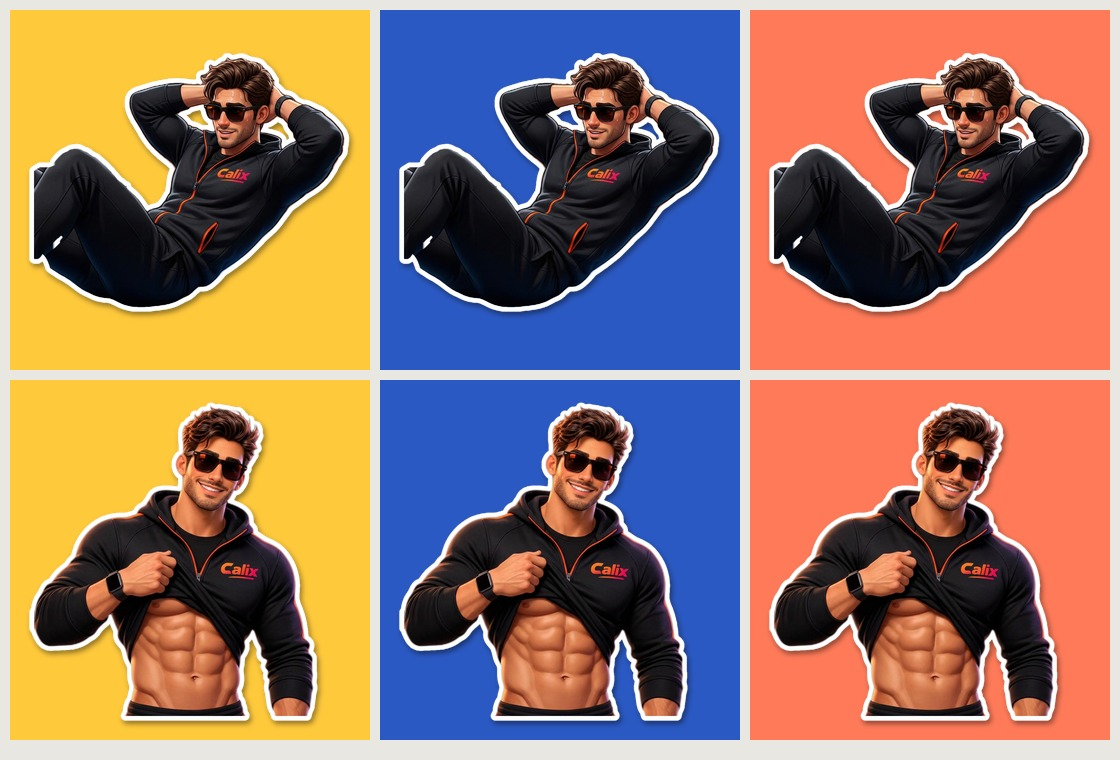
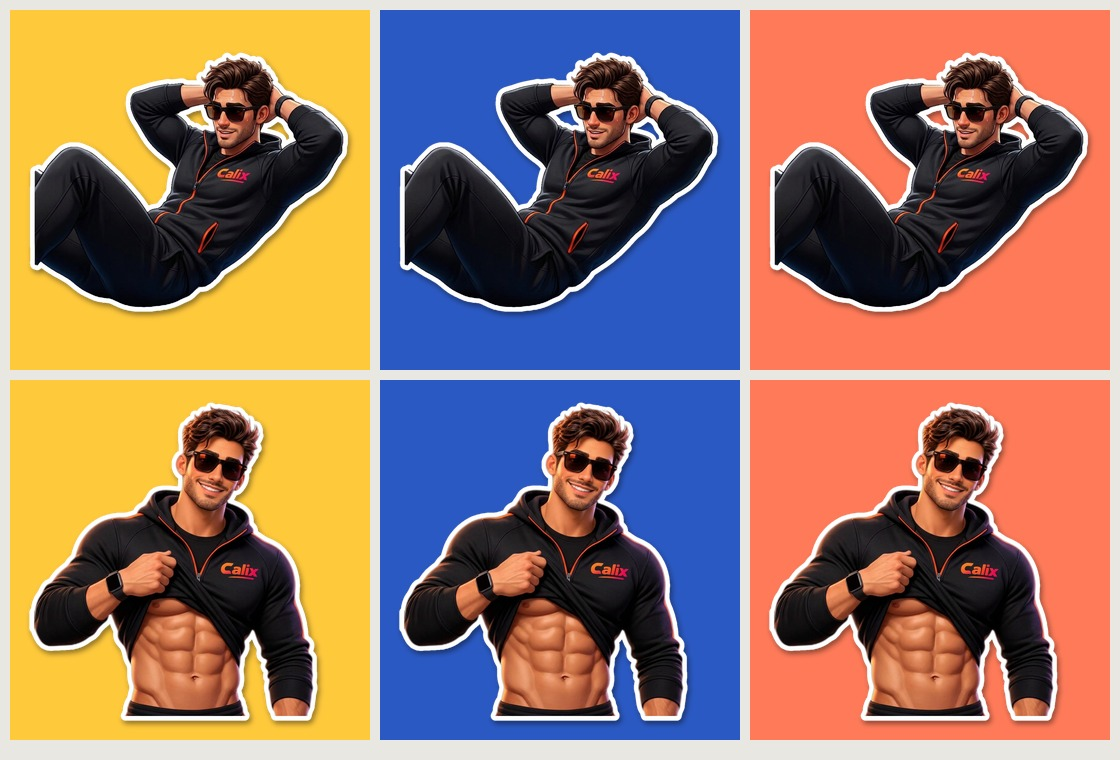
Calix crunch: use the client's white-background version
The new upload (white background, blue mat) is keyed from the background
and the mat, with the model matte filling the edges. The gym version stays
as calix-crunch-salle.

Claude-Session: https://claude.ai/code/session_01F3GHmYXhLkdN7z3oUKaJ4P

diff --git a/avatar/calix/README.md b/avatar/calix/README.md
@@ -24,6 +24,6 @@ Pose dont le « fond transparent » est un damier dessiné dans l'image (ex. `ca
 python3 key_checker.py source/calix-endormi.png cutout/calix-endormi.png 90   # rayon des coins arrondis
 ```
 
-Pose sur fond chargé (ex. `calix-crunch`, salle de sport) : le modèle de détourage perd le pantalon noir sur le sol
+Pose sur fond chargé (ex. `calix-crunch-salle`, salle de sport) : le modèle de détourage perd le pantalon noir sur le sol
 sombre. Le matte final = modèle ∪ pixels sombres et neutres dans un contour de jambe tracé à la main, bord gauche
 (jambes coupées par le cadre) lissé. `apercu-crunch-abdos.jpg` montre les deux autocollants sur les fonds v3.
